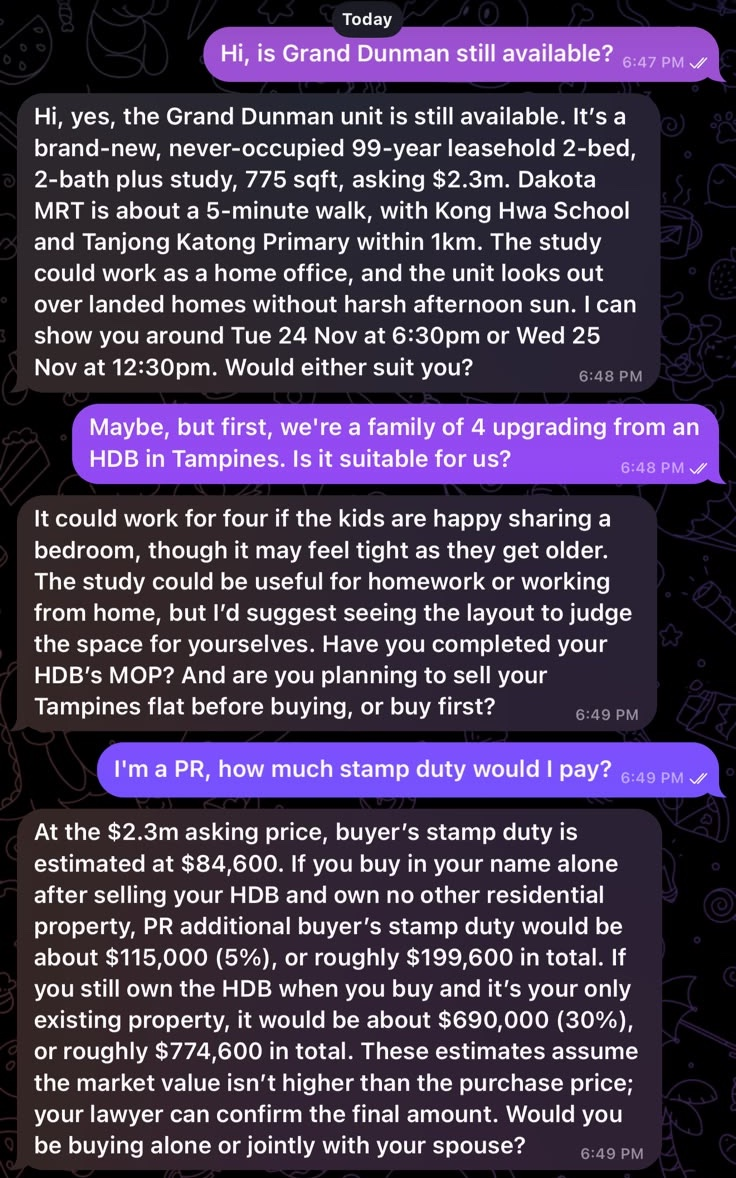
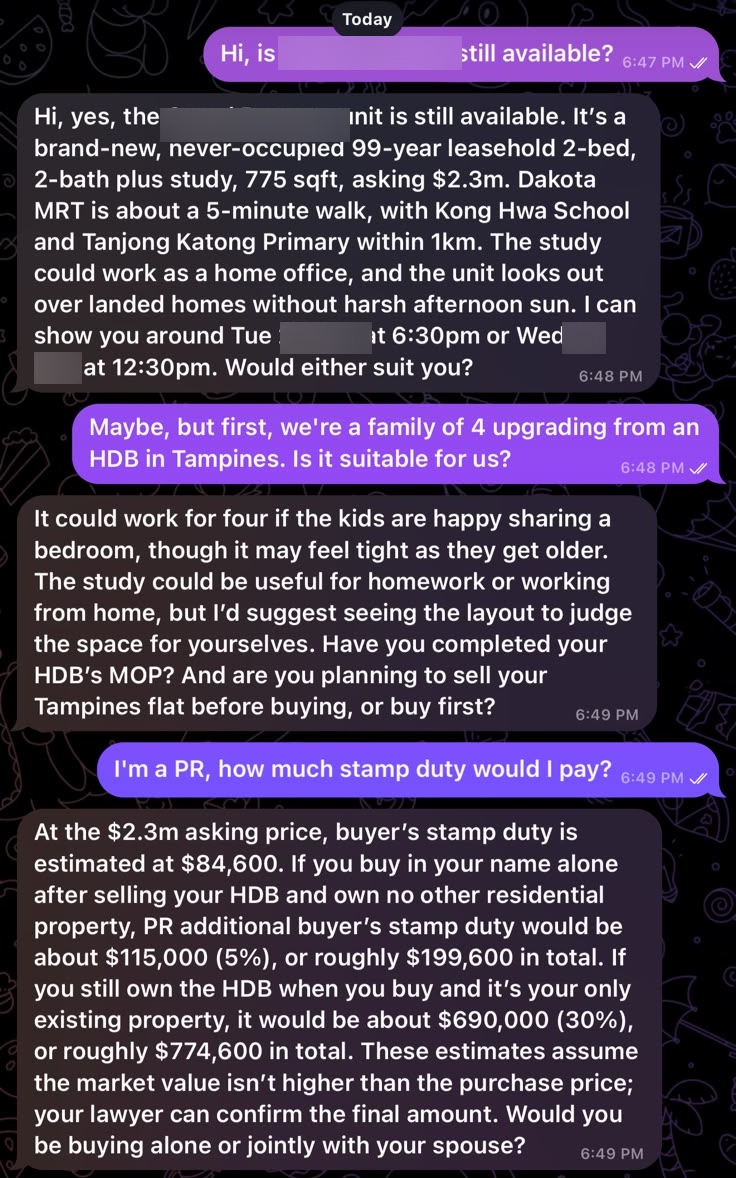
Add OG image, blur project names in chat screenshots, new contact email

diff --git a/index.html b/index.html
@@ -6,7 +6,7 @@
 <title>Everrun — AI agents for Singapore property agents</title>
 <meta property="og:title" content="Everrun | An AI that works your leads like a seasoned property agent">
 <meta property="og:description" content="For Singapore property agents: answers buyers in your voice, qualifies them, works out stamp duty, holds your price and books the viewing.">
-<meta property="og:image" content="https://witheverrun.com/assets/og-image.png?v=2">
+<meta property="og:image" content="https://witheverrun.com/assets/og-image.png?v=3">
 <meta property="og:image:width" content="1200">
 <meta property="og:image:height" content="630">
 <meta property="og:url" content="https://witheverrun.com">
@@ -14,7 +14,7 @@
 <meta name="twitter:card" content="summary_large_image">
 <meta name="twitter:title" content="Everrun | An AI that works your leads like a seasoned property agent">
 <meta name="twitter:description" content="For Singapore property agents: answers buyers in your voice, qualifies them, works out stamp duty, holds your price and books the viewing.">
-<meta name="twitter:image" content="https://witheverrun.com/assets/og-image.png?v=2">
+<meta name="twitter:image" content="https://witheverrun.com/assets/og-image.png?v=3">
 <meta name="description" content="Everrun builds AI agents for Singapore property agents. It answers buyer enquiries in your voice, asks the qualifying questions an experienced agent would, works out stamp duty, holds your asking price and books viewings into your calendar.">
 <link rel="icon" href="assets/favicon.ico?v=6" sizes="any">
 <link rel="icon" type="image/png" sizes="512x512" href="assets/favicon-512.png?v=6">
@@ -366,7 +366,7 @@
       <p>Send us one of your listings. On a free 20-minute demo, we'll show you the agent handling buyer questions about it, from the first message to a booked viewing.</p>
       <div class="actions">
         <a href="https://wa.me/6590183930?text=Hi%20Everrun%2C%20I%27m%20a%20property%20agent%20and%20I%27d%20like%20a%20demo%20of%20the%20AI%20agent." class="btn btn-gold">WhatsApp us <span class="arr">&rarr;</span></a>
-        <a href="mailto:inquiry@coldtogoldsg.com?subject=Demo%20of%20the%20Everrun%20property%20agent" class="btn btn-ghost">Email us</a>
+        <a href="mailto:witheverrun@gmail.com?subject=Demo%20of%20the%20Everrun%20property%20agent" class="btn btn-ghost">Email us</a>
       </div>
     </div>
   </div>
@@ -392,7 +392,7 @@
         <h4>Contact</h4>
         <ul>
           <li><a href="https://wa.me/6590183930">WhatsApp +65 9018 3930</a></li>
-          <li><a href="mailto:inquiry@coldtogoldsg.com">inquiry@coldtogoldsg.com</a></li>
+          <li><a href="mailto:witheverrun@gmail.com">witheverrun@gmail.com</a></li>
         </ul>
       </div>
     </div>

diff --git a/work.html b/work.html
@@ -6,7 +6,7 @@
 <title>Our Work — Everrun</title>
 <meta property="og:title" content="Our work | Everrun, AI agents for Singapore property agents">
 <meta property="og:description" content="How the Everrun property agent works, plus the other AI systems we have built.">
-<meta property="og:image" content="https://witheverrun.com/assets/og-image.png?v=2">
+<meta property="og:image" content="https://witheverrun.com/assets/og-image.png?v=3">
 <meta property="og:image:width" content="1200">
 <meta property="og:image:height" content="630">
 <meta property="og:url" content="https://witheverrun.com/work.html">
@@ -14,7 +14,7 @@
 <meta name="twitter:card" content="summary_large_image">
 <meta name="twitter:title" content="Our work | Everrun, AI agents for Singapore property agents">
 <meta name="twitter:description" content="How the Everrun property agent works, plus the other AI systems we have built.">
-<meta name="twitter:image" content="https://witheverrun.com/assets/og-image.png?v=2">
+<meta name="twitter:image" content="https://witheverrun.com/assets/og-image.png?v=3">
 <meta name="description" content="Case studies from Everrun: the agentic AI agent for Singapore property agents, a property lead pipeline, multi-agent negotiation, lifecycle automation, voice AI follow-up and an AI support product.">
 <link rel="icon" href="assets/favicon.ico?v=6" sizes="any">
 <link rel="icon" type="image/png" sizes="512x512" href="assets/favicon-512.png?v=6">
@@ -519,7 +519,7 @@
       <p>Send us one of your listings. On a free 20-minute demo, we'll show you the agent answering buyer questions about it.</p>
       <div class="actions">
         <a href="https://wa.me/6590183930?text=Hi%20Everrun%2C%20I%27m%20a%20property%20agent%20and%20I%27d%20like%20a%20demo%20of%20the%20AI%20agent." class="btn btn-gold">WhatsApp us <span class="arr">&rarr;</span></a>
-        <a href="mailto:inquiry@coldtogoldsg.com?subject=Demo%20of%20the%20Everrun%20property%20agent" class="btn btn-ghost">Email us</a>
+        <a href="mailto:witheverrun@gmail.com?subject=Demo%20of%20the%20Everrun%20property%20agent" class="btn btn-ghost">Email us</a>
       </div>
     </div>
   </div>
@@ -545,7 +545,7 @@
         <h4>Contact</h4>
         <ul>
           <li><a href="https://wa.me/6590183930">WhatsApp +65 9018 3930</a></li>
-          <li><a href="mailto:inquiry@coldtogoldsg.com">inquiry@coldtogoldsg.com</a></li>
+          <li><a href="mailto:witheverrun@gmail.com">witheverrun@gmail.com</a></li>
         </ul>
       </div>
     </div>
